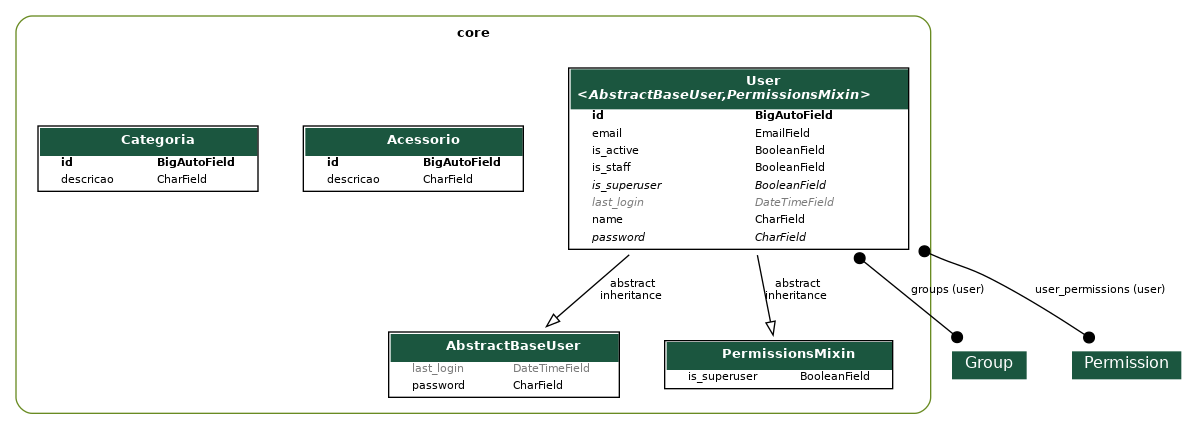
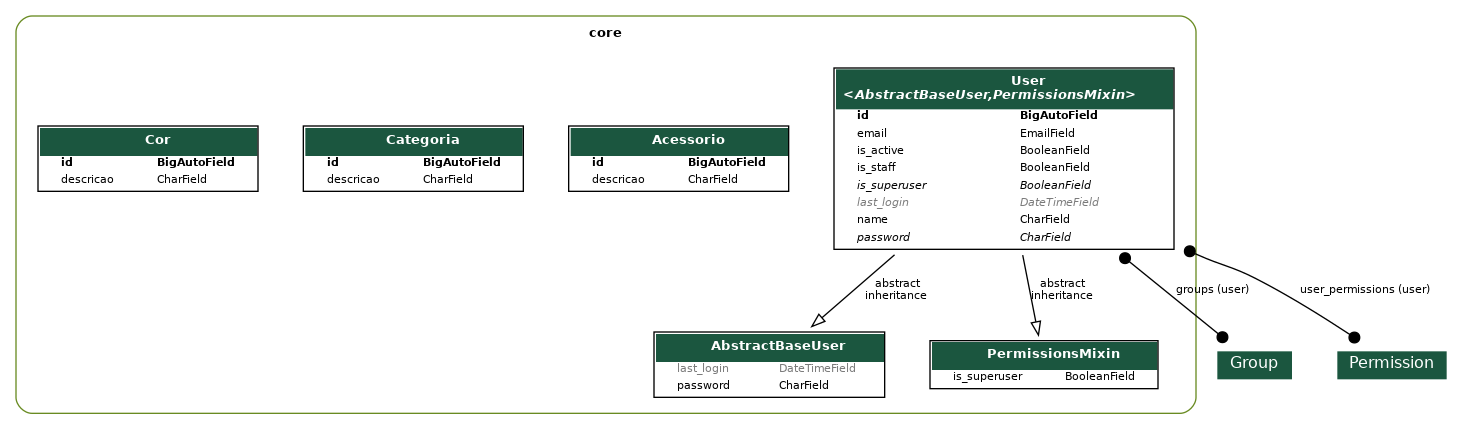
Cor

diff --git a/core/migrations/0004_cor.py b/core/migrations/0004_cor.py
@@ -1,0 +1,20 @@
+# Generated by Django 5.0.2 on 2024-04-01 14:26
+
+from django.db import migrations, models
+
+
+class Migration(migrations.Migration):
+
+    dependencies = [
+        ("core", "0003_categoria"),
+    ]
+
+    operations = [
+        migrations.CreateModel(
+            name="Cor",
+            fields=[
+                ("id", models.BigAutoField(auto_created=True, primary_key=True, serialize=False, verbose_name="ID")),
+                ("descricao", models.CharField(max_length=100)),
+            ],
+        ),
+    ]

diff --git a/app/urls.py b/app/urls.py
@@ -11,11 +11,13 @@ from rest_framework_simplejwt.views import TokenObtainPairView, TokenRefreshView
 
 from core.views import UserViewSet
 from core.views import AcessorioViewSet
+from core.views import CategoriaViewSet
 
 router = DefaultRouter()
 
 router.register(r"users", UserViewSet, basename="users")
 router.register(r"acessorio", AcessorioViewSet)
+router.register(r"categoria", CategoriaViewSet)
 urlpatterns = [
     path("admin/", admin.site.urls),
     # OpenAPI 3

diff --git a/core/views/categoria.py b/core/views/categoria.py
@@ -1,0 +1,8 @@
+from rest_framework.viewsets import ModelViewSet
+
+from core.models import Categoria
+from core.serializers import CategoriaSerializer
+
+class CategoriaViewSet(ModelViewSet):
+    queryset = Categoria.objects.all()
+    serializer_class = CategoriaSerializer

diff --git a/core/serializers/categoria.py b/core/serializers/categoria.py
@@ -1,0 +1,8 @@
+from rest_framework.serializers import ModelSerializer
+
+from core.models import Categoria
+
+class CategoriaSerializer(ModelSerializer):
+    class Meta:
+        model = Categoria
+        fields = "__all__"

diff --git a/core/models/cor.py b/core/models/cor.py
@@ -1,6 +1,6 @@
 from django.db import models
 
-class Categoria(models.Model):
+class Cor(models.Model):
     descricao = models.CharField(max_length=100)
 
     def __str__(self):

diff --git a/core/serializers/__init__.py b/core/serializers/__init__.py
@@ -1,2 +1,3 @@
 from .user import UserSerializer
 from .acessorio import AcessorioSerializer
+from .categoria import CategoriaSerializer

diff --git a/core/models/__init__.py b/core/models/__init__.py
@@ -1,3 +1,4 @@
 from .user import User
 from .acessorio import Acessorio
 from .categoria import Categoria
+from .cor import Cor

diff --git a/core/views/__init__.py b/core/views/__init__.py
@@ -1,2 +1,3 @@
 from .user import UserViewSet
 from .acessorio import AcessorioViewSet
+from .categoria import CategoriaViewSet
